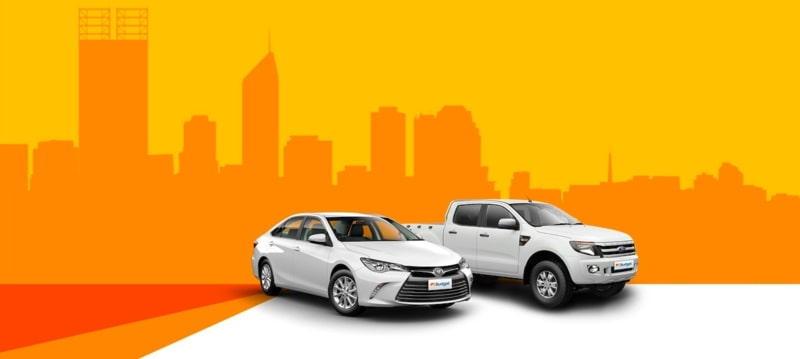
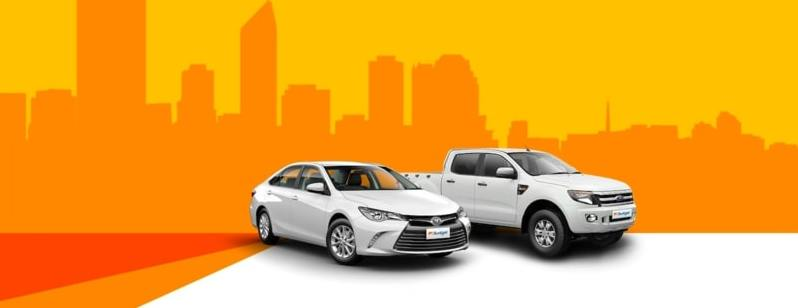
Dashboard Window Created / Buttons Added and Background Image

diff --git a/CarRental/CarRental/Dashboard.xaml b/CarRental/CarRental/Dashboard.xaml
@@ -1,0 +1,23 @@
+<Window x:Class="CarRental.Dashboard"
+        xmlns="http://schemas.microsoft.com/winfx/2006/xaml/presentation"
+        xmlns:x="http://schemas.microsoft.com/winfx/2006/xaml"
+        xmlns:d="http://schemas.microsoft.com/expression/blend/2008"
+        xmlns:mc="http://schemas.openxmlformats.org/markup-compatibility/2006"
+        xmlns:local="clr-namespace:CarRental"
+        mc:Ignorable="d"
+        Title="Dashboard" Height="450" Width="800">
+    <Grid>
+
+        <StackPanel>
+            <Button Background="Orange" Content="Rentals" HorizontalAlignment="Left" Margin="50,70,0,0" VerticalAlignment="Top" Width="67" Height="30"/>
+            <Button Background="Orange" Content="Clients" HorizontalAlignment="Left" Margin="50,30,0,0" VerticalAlignment="Top" Width="67" Height="30"/>
+            <Button Background="Orange" Content="Cars" HorizontalAlignment="Left" Margin="50,30,0,0" VerticalAlignment="Top" Width="67" Height="30"/>
+            <Button Background="Orange" Content="Returns" HorizontalAlignment="Left" Margin="50,30,0,0" VerticalAlignment="Top" Width="67" Height="30"/>
+            <Button Background="Orange" Content="Users" HorizontalAlignment="Left" Margin="50,30,0,0" VerticalAlignment="Top" Width="67" Height="30"/>
+        </StackPanel>
+        <Image Source="Images/Dashboard-Picture.jpg" HorizontalAlignment="Left" Height="414" Margin="152,10,-142,0" VerticalAlignment="Top" Width="786"/>
+        <TextBlock HorizontalAlignment="Left" Margin="57,32,0,0" TextWrapping="Wrap" FontWeight="Black" Text="Dashboard" VerticalAlignment="Top"/>
+
+    </Grid>
+
+</Window>

diff --git a/CarRental/CarRental/Index.xaml b/CarRental/CarRental/Index.xaml
@@ -7,11 +7,12 @@
         mc:Ignorable="d"
         Title="Car Rental JACar" Height="450" Width="800">
     <Grid>
-        <Image Source="Images/Car-Rental-Login.jpg" HorizontalAlignment="Left" Height="414" Margin="10,-58,0,0" VerticalAlignment="Top" Width="776"/>
-        <Button Content="Log In" HorizontalAlignment="Left" Margin="330,356,0,0" VerticalAlignment="Top" Width="138" Height="42"/>
+        <Image Source="Images/Car-Rental-Login.jpg" HorizontalAlignment="Left" Height="346" Margin="10,10,0,0" VerticalAlignment="Top" Width="776"/>
+        <Button Background="Orange" Content="Log In" HorizontalAlignment="Left" Margin="330,356,0,0" VerticalAlignment="Top" Width="138" Height="42"/>
         <TextBox x:Name="txtUsername" HorizontalAlignment="Left" Height="23" Margin="330,280,0,0" TextWrapping="Wrap" Text="" VerticalAlignment="Top" Width="138"/>
         <TextBox x:Name="txtPassword" HorizontalAlignment="Left" Height="23" Margin="330,319,0,0" TextWrapping="Wrap" Text="" VerticalAlignment="Top" Width="138"/>
         <Label Content="Username" HorizontalAlignment="Left" Margin="246,280,0,0" VerticalAlignment="Top"/>
         <Label Content="Password" HorizontalAlignment="Left" Margin="246,319,0,0" VerticalAlignment="Top"/>
+        <TextBlock HorizontalAlignment="Left" Margin="273,31,0,0" TextWrapping="Wrap" FontWeight="ExtraBlack" FontSize="35" FontFamily="Verdun" Text="JA Car Rental" VerticalAlignment="Top"/>
     </Grid>
 </Window>

diff --git a/CarRental/CarRental/Dashboard.xaml.cs b/CarRental/CarRental/Dashboard.xaml.cs
@@ -1,0 +1,27 @@
+using System;
+using System.Collections.Generic;
+using System.Linq;
+using System.Text;
+using System.Threading.Tasks;
+using System.Windows;
+using System.Windows.Controls;
+using System.Windows.Data;
+using System.Windows.Documents;
+using System.Windows.Input;
+using System.Windows.Media;
+using System.Windows.Media.Imaging;
+using System.Windows.Shapes;
+
+namespace CarRental
+{
+    /// <summary>
+    /// Interaction logic for Dashboard.xaml
+    /// </summary>
+    public partial class Dashboard : Window
+    {
+        public Dashboard()
+        {
+            InitializeComponent();
+        }
+    }
+}
